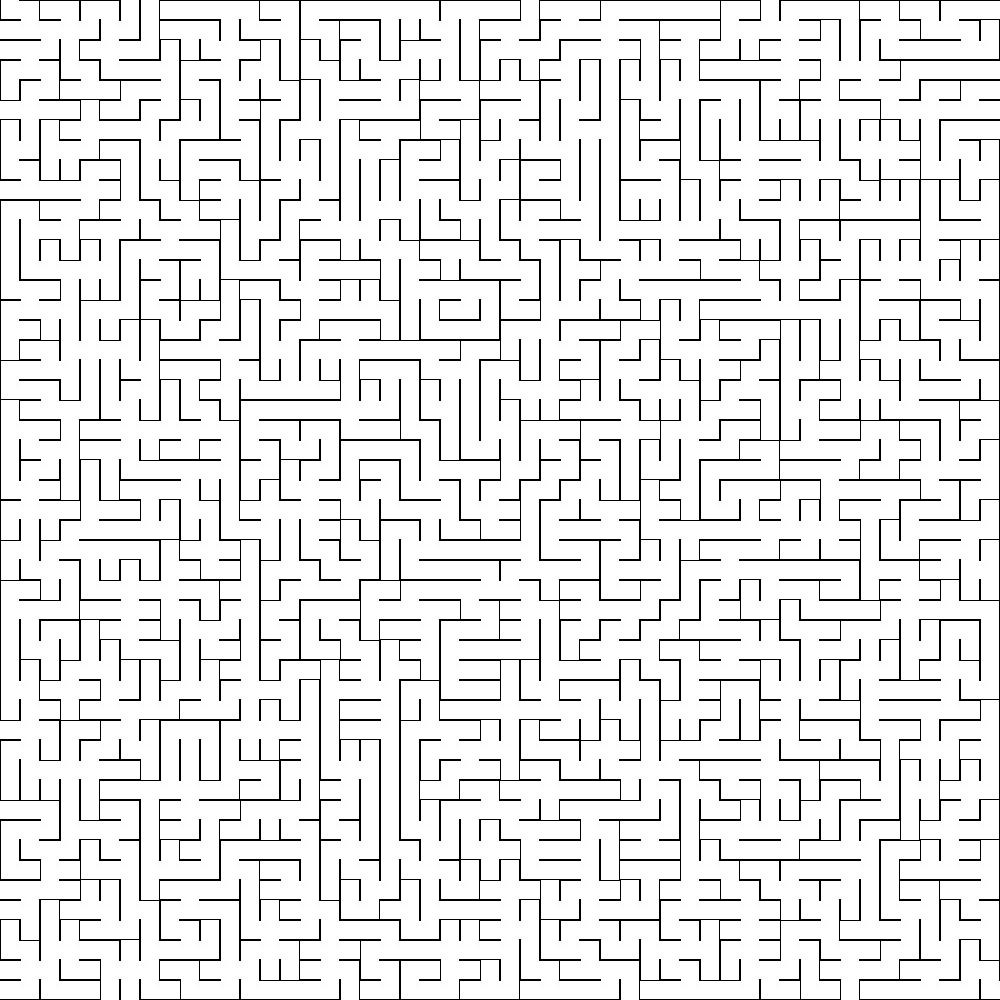
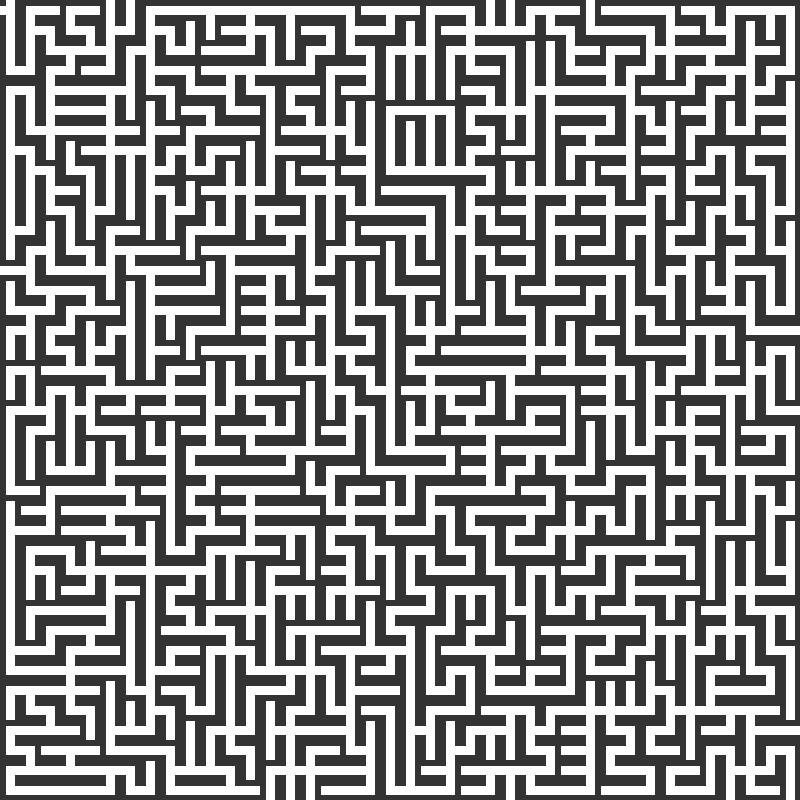
drawing each tile using PIL vs pasting jpg

diff --git a/MAZE/save_as_image.py b/MAZE/save_as_image.py
@@ -1,45 +1,339 @@
 import sys,os
-from PIL import Image
+from PIL import Image, ImageDraw
 from math import sqrt
 
 
 def init(maze):
     #print 'a maze: ',maze
-    tile_ext = 'img/maze-pieces-'
+    ext = os.path.dirname(os.path.realpath(sys.argv[0]))
+
+    tile_ext = ext + '/img/maze-pieces-'
 
     tiles = {
-        '-' : ''.join([tile_ext,'01.jpg']),
-        '|' : ''.join([tile_ext,'02.jpg']),
-        'l' : ''.join([tile_ext,'08.jpg']),
-        'j' : ''.join([tile_ext,'09.jpg']),
-        'r' : ''.join([tile_ext,'10.jpg']),
-        '7' : ''.join([tile_ext,'11.jpg']),
-        '<' : ''.join([tile_ext,'05.jpg']),
-        '>' : ''.join([tile_ext,'04.jpg']),
-        'v' : ''.join([tile_ext,'06.jpg']),
-        '^' : ''.join([tile_ext,'07.jpg']),
-        '+' : ''.join([tile_ext,'03.jpg']),
+        '-' : get_tile_01,
+        '|' : get_tile_02,
+        'l' : get_tile_08,
+        'j' : get_tile_09,
+        'r' : get_tile_10,
+        '7' : get_tile_11,
+        '<' : get_tile_05,
+        '>' : get_tile_04,
+        'v' : get_tile_06,
+        '^' : get_tile_07,
+        '+' : get_tile_03,
     }
 
-    for tile in tiles:
-        tile_img = Image.open(tiles[tile])
-        tiles[tile] = tile_img
-
-    tile_size = tile_img.size[0]
+    tile_size = 20
 
     board_size = int(sqrt(len(maze)))
     img_size = board_size * tile_size
     size = (img_size,img_size)
 
-    img = Image.new('RGB',size)
-
+    img = Image.new('RGB',size,'#ffffff')
+    draw = ImageDraw.Draw(img)
+    
     for coord in maze:
         #print coord,': ',maze[coord]
         coord_x = coord[0] * 20
         coord_y = coord[1] * 20
         this_symbol = maze[coord]
-        this_tile = tiles[this_symbol]
-        img.paste(this_tile,(coord_x,coord_y))
-    img.save('img/output.jpg')
+
+        this_tile = tiles[this_symbol](coord_x,coord_y,draw)
+        #img.paste(this_tile,(coord_x,coord_y))
+    
+
+
+    img_path = ext + '/img/output.jpg'
+    img.save(img_path)
     
     img.show()
+
+def get_tile_01(start_x,start_y,draw):
+    # draw '-'
+
+    x0 = start_x
+    y0 = start_y
+
+    x1 = start_x + 20
+    y1 = start_y + 5
+
+    x2 = start_x
+    y2 = start_y + 15
+
+    x3 = x1
+    y3 = start_y + 20
+
+    draw.rectangle([(x0,y0),(x1,y1)],'#333333')
+    draw.rectangle([(x2,y2),(x3,y3)],'#333333')
+
+    pass
+
+def get_tile_02(start_x,start_y,draw):
+    # draw '|'
+
+    x0 = start_x
+    y0 = start_y
+
+    x1 = start_x + 5
+    y1 = start_y + 20
+
+    x2 = start_x + 15
+    y2 = start_y
+
+    x3 = start_x + 20
+    y3 = start_y + 20
+
+    draw.rectangle([(x0,y0),(x1,y1)],'#333333')
+    draw.rectangle([(x2,y2),(x3,y3)],'#333333')
+
+    pass
+
+def get_tile_03(start_x,start_y,draw):
+    # draw '+'
+
+    x0 = start_x
+    y0 = start_y
+
+    x1 = start_x + 5
+    y1 = start_y + 5
+
+    x2 = start_x + 15
+    y2 = start_y
+
+    x3 = start_x + 20
+    y3 = y1
+
+    x4 = start_x
+    y4 = start_y + 15
+
+    x5 = x1
+    y5 = start_y + 20
+
+    x6 = x2
+    y6 = y4
+
+    x7 = x3
+    y7 = y5
+
+    draw.rectangle([(x0,y0),(x1,y1)],'#333333')
+    draw.rectangle([(x2,y2),(x3,y3)],'#333333')
+    draw.rectangle([(x4,y4),(x5,y5)],'#333333')
+    draw.rectangle([(x6,y6),(x7,y7)],'#333333')
+
+    pass
+
+def get_tile_04(start_x,start_y,draw):
+    # draw '>'
+
+    x0 = start_x
+    y0 = start_y
+
+    x1 = start_x + 5
+    y1 = start_y + 5
+
+    x2 = x0
+    y2 = start_y + 15
+
+    x3 = x1
+    y3 = start_y + 20
+
+    x4 = start_x + 15
+    y4 = y0
+
+    x5 = start_x + 20
+    y5 = y3
+
+    draw.rectangle([(x0,y0),(x1,y1)],'#333333')
+    draw.rectangle([(x2,y2),(x3,y3)],'#333333')
+    draw.rectangle([(x4,y4),(x5,y5)],'#333333')
+
+    pass
+
+def get_tile_05(start_x,start_y,draw):
+    # draw '<'
+    
+    x0 = start_x
+    y0 = start_y
+
+    x1 = start_x + 5
+    y1 = start_y + 20
+
+    x2 = start_x + 15
+    y2 = y0
+
+    x3 = start_x + 20
+    y3 = start_y + 5
+
+    x4 = x2
+    y4 = start_y + 15
+
+    x5 = start_x + 20
+    y5 = y1
+
+    draw.rectangle([(x0,y0),(x1,y1)],'#333333')
+    draw.rectangle([(x2,y2),(x3,y3)],'#333333')
+    draw.rectangle([(x4,y4),(x5,y5)],'#333333')
+
+    pass
+
+def get_tile_06(start_x,start_y,draw):
+    # draw 'v'
+
+    x0 = start_x
+    y0 = start_y
+
+    x1 = start_x + 5
+    y1 = start_y + 5
+
+    x2 = start_x + 15
+    y2 = y0
+
+    x3 = start_x + 20
+    y3 = y1
+
+    x4 = x0
+    y4 = start_y + 15
+
+    x5 = x3
+    y5 = start_y + 20
+
+    draw.rectangle([(x0,y0),(x1,y1)],'#333333')
+    draw.rectangle([(x2,y2),(x3,y3)],'#333333')
+    draw.rectangle([(x4,y4),(x5,y5)],'#333333')
+
+    pass
+
+def get_tile_07(start_x,start_y,draw):
+    # draw '^'
+
+    x0 = start_x
+    y0 = start_y
+
+    x1 = start_x + 20
+    y1 = start_y + 5
+
+    x2 = x0
+    y2 = start_y + 15
+
+    x3 = start_x + 5
+    y3 = start_y + 20
+
+    x4 = start_x + 15
+    y4 = y2
+
+    x5 = x1
+    y5 = y3
+
+    draw.rectangle([(x0,y0),(x1,y1)],'#333333')
+    draw.rectangle([(x2,y2),(x3,y3)],'#333333')
+    draw.rectangle([(x4,y4),(x5,y5)],'#333333')
+
+    pass
+
+def get_tile_08(start_x,start_y,draw):
+    # draw 'l'
+
+    x0 = start_x
+    y0 = start_y
+
+    x1 = start_x + 5
+    y1 = start_y + 20
+
+    x2 = x1
+    y2 = start_y + 15
+
+    x3 = start_x + 20
+    y3 = start_y + 20
+
+    x4 = start_x + 15
+    y4 = y0
+
+    x5 = x3
+    y5 = start_y + 5
+
+    draw.rectangle([(x0,y0),(x1,y1)],'#333333')
+    draw.rectangle([(x2,y2),(x3,y3)],'#333333')
+    draw.rectangle([(x4,y4),(x5,y5)],'#333333')
+
+    pass
+
+def get_tile_09(start_x,start_y,draw):
+    # draw 'j'
+
+    x0 = start_x
+    y0 = start_y
+
+    x1 = start_x + 5
+    y1 = start_y + 5
+
+    x2 = start_x + 15
+    y2 = y0
+
+    x3 = start_x + 20
+    y3 = start_y + 20
+
+    x4 = start_x
+    y4 = start_y + 15
+
+    x5 = x2
+    y5 = y3
+
+    draw.rectangle([(x0,y0),(x1,y1)],'#333333')
+    draw.rectangle([(x2,y2),(x3,y3)],'#333333')
+    draw.rectangle([(x4,y4),(x5,y5)],'#333333')
+
+    pass
+
+def get_tile_10(start_x,start_y,draw):
+    # draw 'r'
+
+    x0 = start_x
+    y0 = start_y
+
+    x1 = start_x + 5
+    y1 = start_y + 20
+
+    x2 = x1
+    y2 = y0
+
+    x3 = start_x + 20
+    y3 = start_y + 5
+
+    x4 = start_x + 15
+    y4 = start_y + 15
+
+    x5 = x3
+    y5 = y1
+
+    draw.rectangle([(x0,y0),(x1,y1)],'#333333')
+    draw.rectangle([(x2,y2),(x3,y3)],'#333333')
+    draw.rectangle([(x4,y4),(x5,y5)],'#333333')
+
+    pass
+
+def get_tile_11(start_x,start_y,draw):
+    # draw '7'
+
+    x0 = start_x
+    y0 = start_y
+
+    x1 = start_x + 20
+    y1 = start_y + 5
+
+    x2 = start_x + 15
+    y2 = y1
+
+    x3 = x1
+    y3 = start_y + 20
+
+    x4 = x0
+    y4 = start_y + 15
+
+    x5 = start_x + 5
+    y5 = y3
+
+    draw.rectangle([(x0,y0),(x1,y1)],'#333333')
+    draw.rectangle([(x2,y2),(x3,y3)],'#333333')
+    draw.rectangle([(x4,y4),(x5,y5)],'#333333')
+
+    pass

diff --git a/MAZE/__init__.py b/MAZE/__init__.py
@@ -1,7 +1,7 @@
 import draw
 import save_as_image
 
-a_maze = draw.Maze(50)
+a_maze = draw.Maze(40)
 a_maze.draw_maze()
 
 a_maze_map = a_maze.get_maze_map()
